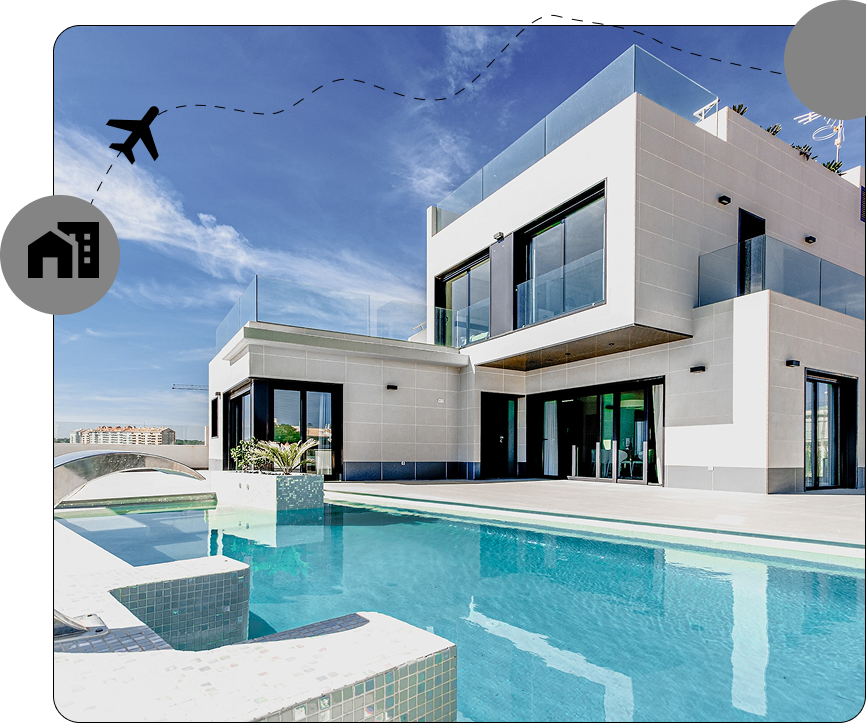
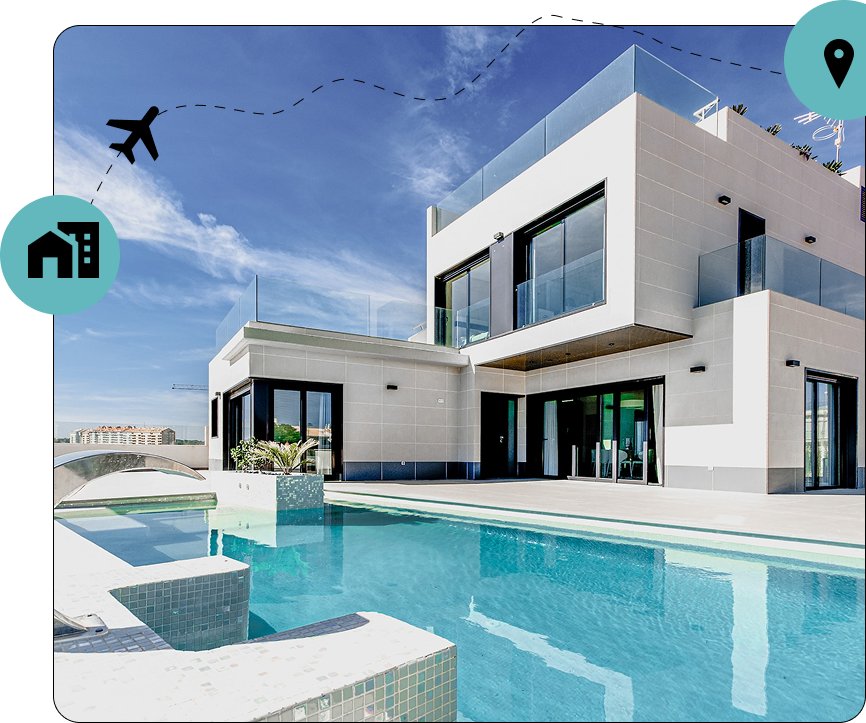
.

Changed region(s): [[0.0, 0.2739, 0.1559, 0.4564], [0.9042, 0.0, 1.0, 0.1826]]

diff --git a/landing/src/components/FAQSubscribe.css b/landing/src/components/FAQSubscribe.css
@@ -27,7 +27,7 @@
   display: flex;
   align-items: center;
   justify-content: center;
-  background: #d9d9d9;
+  background: #39B3B8;
   padding: 30px 40px;
   width: 100%;
   position: relative;
@@ -43,7 +43,7 @@
 }
 
 .faq-card {
-  background: #ACACAC;
+  background: #62B8BC;
   padding: 20px;
   border-radius: 15px;
   text-align: center;
@@ -100,7 +100,7 @@
 
 /* Suscripción */
 .subscribe {
-  background: #00b3b3;
+  background: #1CA8B4;
   padding: 40px;
   border-radius: 15px;
   text-align: center;
@@ -126,8 +126,7 @@
 
 .subscribe input {
   padding: 10px;
-  border: none;
-  border-radius: 6px;
+  border-radius: 999px;
   width: 250px;
 }
 
@@ -135,8 +134,7 @@
   background: #222;
   color: #fff;
   padding: 10px 20px;
-  border-radius: 6px;
-  border: none;
+  border-radius: 999px;
   cursor: pointer;
   font-weight: 600;
 }

diff --git a/landing/src/components/Navbar.css b/landing/src/components/Navbar.css
@@ -1,5 +1,5 @@
 .navbar {
-  background: #fff;
+  background: #FFF;
   display: flex;
   align-items: center;
   justify-content: space-between;
@@ -18,7 +18,7 @@
   flex: 2;
   display: flex;
   justify-content: center;
-  background: #e5e5e5;   
+  background: #A9C9CE;   
   border-radius: 999px;
   padding: 6px 20px;
 }
@@ -39,7 +39,7 @@
 }
 
 .nav-links a:hover {
-  background: #d0d0d0;
+  background: #78a5a7;
 }
 
 .navbar-right {
@@ -55,9 +55,9 @@
   font-size: 14px;
   padding: 8px 16px;
   border-radius: 999px;
-  background: #d9d9d9;
+  background: #A9C9CE;
 }
 
 .register-btn:hover {
-  background: #c9c9c9;
+  background: #78a5a7;
 }

diff --git a/landing/src/components/Footer.css b/landing/src/components/Footer.css
@@ -12,7 +12,7 @@
 }
 
 .footer-logo {
-  width: 160px;  /* 👈 tamaño grande del logo */
+  width: 250px;  
   height: auto;
   margin-bottom: 10px;
 }

diff --git a/landing/src/components/Countdown.css b/landing/src/components/Countdown.css
@@ -1,7 +1,7 @@
 .countdown {
   text-align: center;
   padding: 40px 0;
-  background: #eee;
+  background: #39B3B8;
 }
 
 .countdown h2 {
